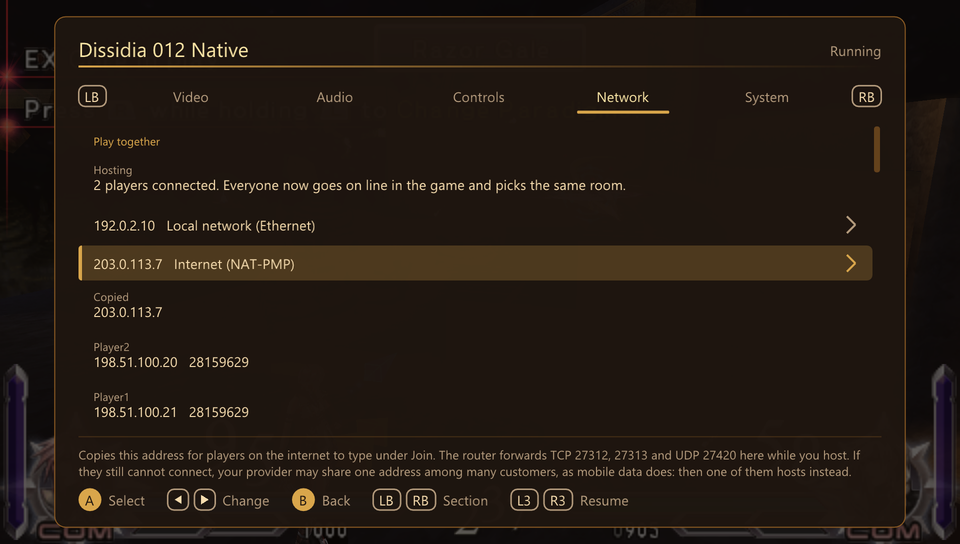
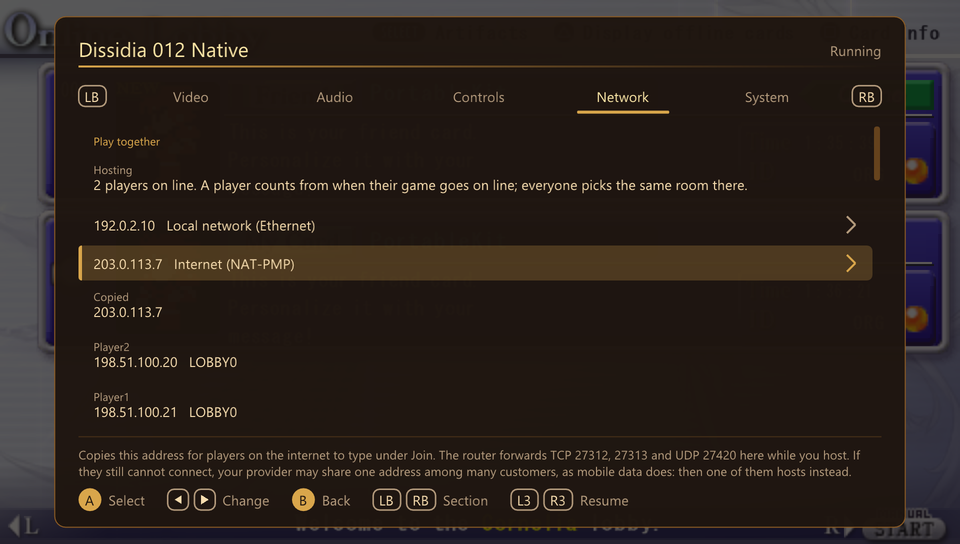
Network page fixes from the Steam Deck test (PortableKit patch 0074)
The release test, a Windows setup install against a setup.ps1 -Deck
package, played a LAN battle and a mobile-hotspot battle in step. The
player found three things on the Network page:

- ImGui's "conflicting ID" box showed on the Deck, a message meant for
  developers. It now appears only with <PREFIX>_UI_ID_CHECK=1, and the
  status rows whose labels can repeat get an ID each.
- After joining, the host still showed one player: joining on the page
  only chooses the session, and a player counts once their game goes on
  line. Hosting now says "N players on line" and so, and a joining player
  gets a Joined row saying the same.
- A server typed into Server was not kept among the recent sessions. It
  is now, as one typed under Address: a LAN address, an internet address
  or a server's name alike.

The players' guide says how the count works, and the README's and the
guide's Network page pictures are retaken (example addresses only).

Tested on Windows: two copies on one PC into a battle, each stepping
through its whole Network page with D012_UI_ID_CHECK=1, no warning; the
host showed 2 players on line in LOBBY0. Patches 0001-0074 applied to
33800c4 give the build's tree. Not seen: the Deck's duplicate rows
themselves.

diff --git a/port/README.md b/port/README.md
@@ -257,6 +257,7 @@ fresh clone of `33800c4`, apply them with `git checkout -b dissidia 33800c4` and
 | 0071 | Hosting a session asks the router to forward its ports (`host/adhoc/port_mapping.cpp`): NAT-PMP, then UPnP (SSDP, `AddPortMapping`); an hour's lease renewed at half time and given back on stop; `adhoc_host_forward_also()` for a game's own ports; the Network page shows the internet address with a copy button; `network.router_ports` turns it off | Players on the internet join a hosted session without port forwarding by hand; the port adds its battle link's UDP port ([communication-mode.md](../docs/port/communication-mode.md), section 14) |
 | 0072 | `<PREFIX>_HOST_SESSION=1` hosts a session as the game starts | Tests of a hosting copy with nobody at it (section 14) |
 | 0073 | `ui::wait_over_game()` (a band over the last frame while the game cannot go on: hold back to leave, or a notice with OK) and `Layer::escape_held()`; `ui::add_network_rows()`; `RouterStatus::shared` (the router's own outside address is private or provider-shared); `<PREFIX>_EXAMPLE_ADDRESSES`; game-neutral hosting text | Online play's waiting screen and notices, its Input delay row, and saying when opened ports cannot help ([communication-mode.md](../docs/port/communication-mode.md), section 15) |
+| 0074 | The Network page: ImGui's "conflicting ID" box only with `<PREFIX>_UI_ID_CHECK=1`, and an ID each for the status rows whose labels can repeat; Hosting counts "players on line" and says a player counts from when their game goes on line, and a joining player gets a Joined row saying so; a server typed into Server is kept with the recent sessions (`adhoc_remember()`) | A Steam Deck player saw the ID box, and a host saw no new player after the other joined on the page |
 
 Patches 0012 and 0013 were made on a separate worktree branch during the recompiled-build work and merged onto
 `dissidia` on 18 October 2026; patches 0014 and 0015 followed the same day (bring-up log, section "Stencil"), and
@@ -269,7 +270,7 @@ unmerged branch `depth-clip`: no visible change here); 0044 the same day for a r
 and PPSSPP (`portablekit_savedata_tests` and both directions checked against PPSSPP 1.20.4). Patches 0055 to 0061
 came from 25 to 26 October for local split-screen versus, made on the worktree branch `local-versus` and moved onto
 `dissidia` when that branch was merged. Patch 0062 came on 28 October for the split halves' field of view, on
-`local-versus` again (the branch `versus-fov` here), and moved onto `dissidia` when that was merged the same day. Patches 0063 and 0064 came on 28 October for the installer build, and 0065 on 31 October for a report from the Steam Deck (made on the worktree branch `interp-pairing`). Patches 0066 and 0067 came on 1 November for issue 7 and texture packs (made in a clone of the branch in the worktree `github-issues-review-06bf08`). Patches 0068 to 0070 came on 1 November for online play, made on the branch `adhoc-matching-012` and moved onto `dissidia` plus 0066 as the branch `online-012`, and on 2 November onto 0067 too. Patches 0071 and 0072 came the same evening for online play without port forwarding, on `online-012`. Patch 0073 came the same night for the player-facing pieces (roadmap step 5).
+`local-versus` again (the branch `versus-fov` here), and moved onto `dissidia` when that was merged the same day. Patches 0063 and 0064 came on 28 October for the installer build, and 0065 on 31 October for a report from the Steam Deck (made on the worktree branch `interp-pairing`). Patches 0066 and 0067 came on 1 November for issue 7 and texture packs (made in a clone of the branch in the worktree `github-issues-review-06bf08`). Patches 0068 to 0070 came on 1 November for online play, made on the branch `adhoc-matching-012` and moved onto `dissidia` plus 0066 as the branch `online-012`, and on 2 November onto 0067 too. Patches 0071 and 0072 came the same evening for online play without port forwarding, on `online-012`. Patch 0073 came the same night for the player-facing pieces (roadmap step 5), and 0074 on 2 November from the release test against the Steam Deck.
 PortableKit's 21 framework tests pass on the branch and `portablekit_host_check` builds.
 
 ## Recompiled build

diff --git a/docs/port/play-online.md b/docs/port/play-online.md
@@ -30,14 +30,15 @@ The pictures use example addresses; yours are your own.
    - **Internet (NAT-PMP)** or **Internet (UPnP)**: for a player anywhere else. Select it and the address is copied
      (it shows under **Copied**); paste it into a message to the other player.
 
-   ![The Network page while hosting: 2 players connected, a local network address, the internet address 203.0.113.7 highlighted and shown again under Copied, and the connected players below](../images/online-hosting.png)
+   ![The Network page while hosting: 2 players on line, a local network address, the internet address 203.0.113.7 highlighted and shown again under Copied, and the two players in lobby LOBBY0 below](../images/online-hosting.png)
 
 4. The first time, Windows may ask whether to let the game use the network: allow it on private networks.
 5. Close the menu (B, Esc, or L3 + R3 again). The session runs as long as the game does; **Stop hosting**, further
    down the same rows, ends it.
 
-Once the other player has joined and gone on line, **Hosting** counts both of you ("2 players connected") and lists
-each player. If the internet row says the router did not open the ports, or that your provider shares the address,
+**Hosting** counts the players whose game is on line, you included ("2 players on line"), and lists them. Joining
+on the Network page only chooses the session: a player is counted from when their game goes on line, in
+Communications Mode. If the internet row says the router did not open the ports, or that your provider shares the address,
 see [If something goes wrong](#if-something-goes-wrong).
 
 ## Join
@@ -50,8 +51,10 @@ see [If something goes wrong](#if-something-goes-wrong).
 
    ![The Address box with 203.0.113.7 typed and the on-screen keyboard below it](../images/online-join-address.png)
 
-4. A row **Joined** with the host's address appears under Address, and **Server** further down shows it too. Next
-   time the same row joins again in one press: the game keeps recent addresses.
+4. A row **Joined** with the host's address appears under Address, and **Server** further down shows it too. Your
+   game connects to the host when it goes on line, and the host counts you from then. Next time the same row joins
+   again in one press: the game keeps recent addresses, a home network's, an internet one or a server's name alike
+   (also one typed into **Server**).
 
    ![The Network page after joining: Joined 203.0.113.7 recent highlighted under Address](../images/online-joined.png)
 

diff --git a/docs/port/communication-mode.md b/docs/port/communication-mode.md
@@ -541,6 +541,10 @@ said so.
 - `D012_EXAMPLE_ADDRESSES=1` shows documentation addresses (RFC 5737) on the Network page, for the README's picture.
   PortableKit's Network page no longer uses Monster Hunter's words: no "Online Guild Hall" in the hosting rows, and
   rooms, not halls, in the Server status and the Ad hoc play help.
+- From the release test against the Deck (patch 0074): Hosting counts "players on line", since joining on the page
+  only chooses the session and the game connects when it goes on line, and a joining player's Joined row says so; a
+  server typed into Server is remembered like a joined one; ImGui's "conflicting ID" box, which a status row showed
+  on the Deck, appears only with `<PREFIX>_UI_ID_CHECK=1`.
 
 **Results (V; two copies on this PC, copy 1 hosting, copy 2 joining its LAN address, both with nothing set).**
 
